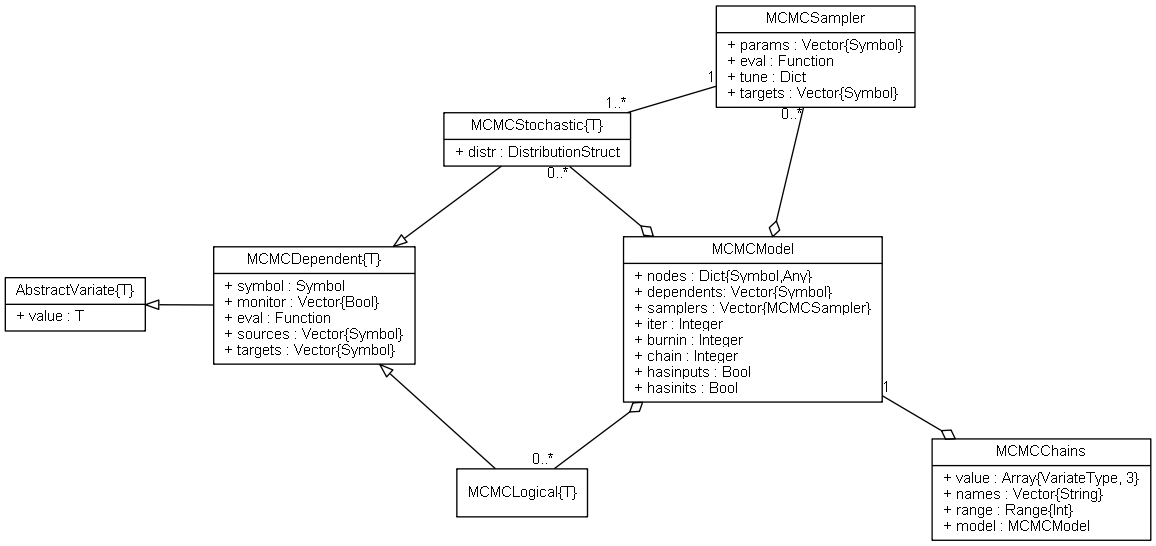
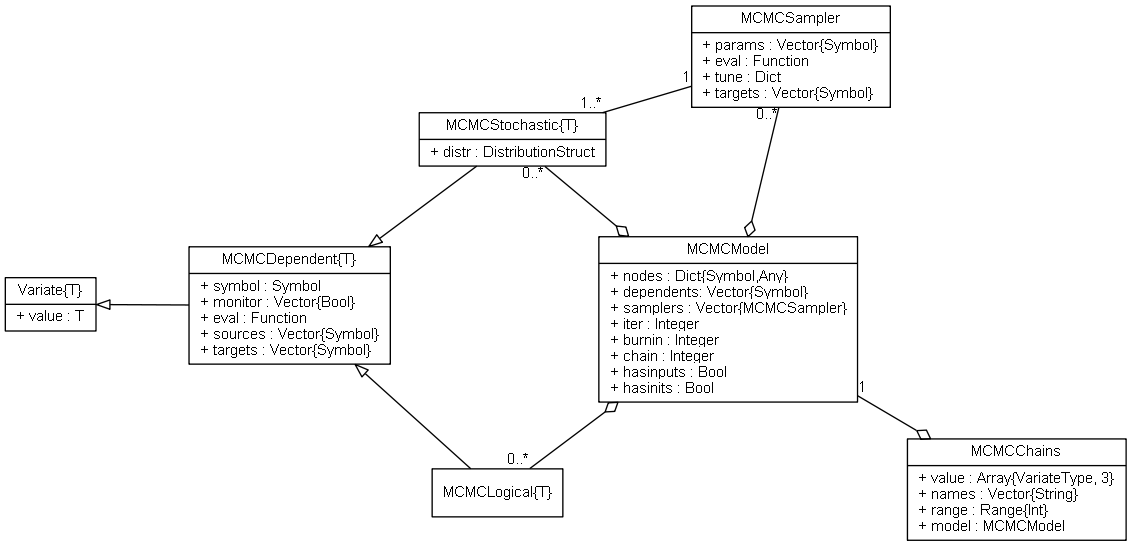
Rename abstract 'AbstractVariate' types to 'Variate'.

diff --git a/doc/variate.rst b/doc/variate.rst
@@ -3,37 +3,37 @@
 Variate Types
 =============
 
-.. index:: AbstractVariate
+.. index:: Variate
 
-.. _section-AbstractVariate:
+.. _section-Variate:
 
-AbstractVariate
----------------
+Variate
+-------
 
-``AbstractVariate`` is an abstract type that serves as the basis for several concrete types in the *MCMCsim* package.  Conceptually, it represents a data structure that stores numeric values sampled from a target distribution.  As an abstract type, ``AbstractVariate`` cannot be instantiated and cannot have fields.  It can, however, have method functions, which descendant subtypes will inherit.  Such inheritance allows one to endow a core set of functionality to all subtypes by simply defining the functionality once on the abstract type (see `julia Types <http://docs.julialang.org/en/release-0.2/manual/types/>`_).  Accordingly, a core set of functionality is defined for the ``AbstractVariate`` type through the field and method functions summarized below.  Although the (abstract) type does not have fields, its method functions assume that all subtypes will be declared with the ``value`` field shown.
+``Variate`` is an abstract type that serves as the basis for several concrete types in the *MCMCsim* package.  Conceptually, it represents a data structure that stores numeric values sampled from a target distribution.  As an abstract type, ``Variate`` cannot be instantiated and cannot have fields.  It can, however, have method functions, which descendant subtypes will inherit.  Such inheritance allows one to endow a core set of functionality to all subtypes by simply defining the functionality once on the abstract type (see `julia Types <http://docs.julialang.org/en/release-0.2/manual/types/>`_).  Accordingly, a core set of functionality is defined for the ``Variate`` type through the field and method functions summarized below.  Although the (abstract) type does not have fields, its method functions assume that all subtypes will be declared with the ``value`` field shown.
 
 Declaration
 ^^^^^^^^^^^
 
-``abstract AbstractVariate{T<:Union(VariateType, Array{VariateType})}``
+``abstract Variate{T<:Union(VariateType, Array{VariateType})}``
 
 Aliases
 ^^^^^^^
 
-.. index:: AbstractVariateArray
-.. index:: AbstractVariateMatrix
-.. index:: AbstractVariateScalar
-.. index:: AbstractVariateVector
+.. index:: VariateArray
+.. index:: VariateMatrix
+.. index:: VariateScalar
+.. index:: VariateVector
 .. index:: VariateType
 
 .. code-block:: julia
 
 	typealias VariateType Float64
 
-	typealias AbstractVariateScalar AbstractVariate{VariateType}
-	typealias AbstractVariateVector AbstractVariate{Vector{VariateType}}
-	typealias AbstractVariateMatrix AbstractVariate{Matrix{VariateType}}
-	typealias AbstractVariateArray{N} AbstractVariate{Array{VariateType,N}}
+	typealias VariateScalar Variate{VariateType}
+	typealias VariateVector Variate{Vector{VariateType}}
+	typealias VariateMatrix Variate{Matrix{VariateType}}
+	typealias VariateArray{N} Variate{Array{VariateType,N}}
 
 Field
 ^^^^^
@@ -43,7 +43,7 @@ Field
 Methods
 ^^^^^^^
 
-Method functions supported on all ``AbstractVariate`` types are summarized in the following sections; and, unless otherwise specified, are detailed in `The Julia Standard Library <http://docs.julialang.org/en/release-0.2/stdlib/base>`_ documentation.
+Method functions supported on all ``Variate`` types are summarized in the following sections; and, unless otherwise specified, are detailed in `The Julia Standard Library <http://docs.julialang.org/en/release-0.2/stdlib/base>`_ documentation.
 
 Array Functions
 ```````````````
@@ -100,9 +100,9 @@ Statistics
 Subtypes
 ----------
 
-Subtypes of ``AbstractVariate`` include the :ref:`section-MCMCDependent`, :ref:`section-MCMCLogical`, and :ref:`section-MCMCStochastic` types, as well as the those defined for supplied :ref:`section-Sampling-Functions`.
+Subtypes of ``Variate`` include the :ref:`section-MCMCDependent`, :ref:`section-MCMCLogical`, and :ref:`section-MCMCStochastic` types, as well as the those defined for supplied :ref:`section-Sampling-Functions`.
 
 .. figure:: images/variateUML.png
 	:align: center
 
-	UML relational diagram of ``AbstractVariate`` types and their fields.
+	UML relational diagram of ``Variate`` types and their fields.

diff --git a/doc/mcmc/dependent.rst b/doc/mcmc/dependent.rst
@@ -5,14 +5,14 @@
 MCMCDependent
 -------------
 
-``MCMCDependent`` is an abstract type designed to store values and attributes of model nodes, including parameters :math:`\theta_1, \ldots, \theta_p` to be simulated via MCMC, functions of the parameters, and likelihood specifications on observed data.  It extends the base ``AbstractVariate`` type with method functions defined for the fields summarized below.  Like the type it extends, values are stored in a ``value`` field and can be used with method functions that accept ``AbstractVariate`` type objects.
+``MCMCDependent`` is an abstract type designed to store values and attributes of model nodes, including parameters :math:`\theta_1, \ldots, \theta_p` to be simulated via MCMC, functions of the parameters, and likelihood specifications on observed data.  It extends the base ``Variate`` type with method functions defined for the fields summarized below.  Like the type it extends, values are stored in a ``value`` field and can be used with method functions that accept ``Variate`` type objects.
 
 Since parameter values in the ``MCMCDependent`` structure are stored as a scalar or array, objects of this type can be created for model parameters of corresponding dimensions, with the choice between the two being user and application-specific.  At one end of the spectrum, a model might be formulated in terms of parameters that are all scalars, with a separate instances of  ``MCMCDependent`` for each one.  At the other end, a formulation might be made in terms of a single parameter array, with one corresponding instance of ``MCMCDependent``.  Whether to formulate parameters as scalars or arrays will depend on the application at hand.  Array formulations should be considered for parameters and data that have multivariate distributions, or are to be used as such in numeric operations and functions.  In other cases, scalar parametrizations may be preferable.  Situations in which parameter arrays are often used include the specification of regression coefficients and random effects.
 
 Declaration
 ^^^^^^^^^^^
 
-``abstract MCMCDependent{T} <: AbstractVariate{T}``
+``abstract MCMCDependent{T} <: Variate{T}``
 
 Fields
 ^^^^^^

diff --git a/doc/mcmc.rst b/doc/mcmc.rst
@@ -20,7 +20,7 @@ The relationships are as follows.  Type ``MCMCModel`` contains a dictionary fiel
 	* **Logical nodes** (``MCMCLogical``) are terms that are deterministic functions of other nodes.
 	* **Input nodes** (not shown) are any other model terms and data types that are considered to be fixed quantities in the analysis.
 
-``MCMCStochastic`` and ``MCMCLogical`` are inherited from the base :ref:`section-AbstractVariate` type and can be used with operators and in functions defined for that type.  The sampling functions in ``MCMCModel`` each correspond to a block of one or more model parameters (stochastic nodes) to be sampled from a target distribution (e.g. full conditional) during the simulation.  Finally, ``MCMCChain`` stores simulation output for a given model.  Detailed information about each type is provided in the subsequent sections.
+``MCMCStochastic`` and ``MCMCLogical`` are inherited from the base :ref:`section-Variate` type and can be used with operators and in functions defined for that type.  The sampling functions in ``MCMCModel`` each correspond to a block of one or more model parameters (stochastic nodes) to be sampled from a target distribution (e.g. full conditional) during the simulation.  Finally, ``MCMCChain`` stores simulation output for a given model.  Detailed information about each type is provided in the subsequent sections.
 
 .. toctree::
 	:maxdepth: 1

diff --git a/doc/samplers/slice.rst b/doc/samplers/slice.rst
@@ -36,7 +36,7 @@ VariateSlice Type
 Declaration
 ```````````
 
-``VariateSlice <: AbstractVariateVector``
+``VariateSlice <: VariateVector``
 
 Fields
 ``````

diff --git a/doc/samplers/amwg.rst b/doc/samplers/amwg.rst
@@ -39,7 +39,7 @@ VariateAMWG Type
 Declaration
 ```````````
 
-``VariateAMWG <: AbstractVariateVector``
+``VariateAMWG <: VariateVector``
 
 Fields
 ``````

diff --git a/doc/samplers/nuts.rst b/doc/samplers/nuts.rst
@@ -51,7 +51,7 @@ VariateNUTS Type
 Declaration
 ```````````
 
-``VariateNUTS <: AbstractVariateVector``
+``VariateNUTS <: VariateVector``
 
 Fields
 ``````

diff --git a/doc/samplers/amm.rst b/doc/samplers/amm.rst
@@ -37,7 +37,7 @@ VariateAMM Type
 Declaration
 ```````````
 
-``VariateAMM <: AbstractVariateVector``
+``VariateAMM <: VariateVector``
 
 Fields
 ``````
